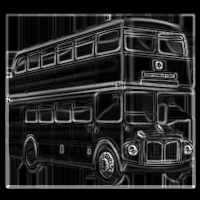
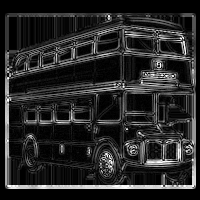
Module working [:smile:]

diff --git a/app.py b/app.py
@@ -2,9 +2,9 @@ from flask import Flask, jsonify, request
 from flask.ext.mysqldb import MySQL
 import cv2
 import numpy as np
-from imgprocess import imgproc
+from imgprocess import imgprocs, imgprocl
 import urllib
-
+from random import randint
 
 app = Flask(__name__)
 
@@ -68,15 +68,56 @@ def returnType(nname):
 def returnProcImg(iid):
 	cur = mysql.connection.cursor()
 	sql = "SELECT * FROM images \
-		    WHERE id LIKE '%s'" % (iid)
+	 	    WHERE id LIKE '%s'" % (iid)
 	cur.execute(sql)
 	rv = cur.fetchall()
 	id,name,url = rv[0]
 	print (id,name,url)
-	imgproc(str(url),iid)
-	#cv2.imwrite(str(id)+".png", procimg)
-	return jsonify({'message' : 'It works!'})
-
+	# query = "SELECT * FROM imgprocess \
+	# 		WHERE id LIKE '%s'" % (iid)
+	# img = []
+	# try:
+	# 	print ("2")
+	# 	cur.execute(query)
+	# 	rvi = cur.fetchall()
+	# 	obj = {}
+	# 	# get the processed id and url from the table
+	# 	idp, urlp = rvi[0]
+	# 	obj['id'] = str(idp)
+	# 	obj['url'] = str(urlp)
+	# 	img.append(obj)
+	# 	return jsonify({'res' : img})
+	# except:
+	# 	#sobel
+	# 	#imgprocs(str(url),iid) 
+	# 	#laplacian
+	# 	print ("1")
+	# 	new_url = "http://localhost:5000/cgi/" + str(id) + ".png" 
+	# 	print (str(new_url))
+	# 	print (str(url))
+	# 	imgprocl(str(url),id)
+	# 	query = "INSERT INTO imgprocess \
+	# 			VALUES ('%s', '%s')" % (str(id), str(new_url))
+	# 	cur.execute(query)
+	# 	connection.commit()
+	# 	img = []
+	# 	obj = {}
+	#Adding randomization in filters
+	if (randint(0,1) == 1):
+		imgprocl(str(url),id)
+	else:
+		imgprocs(str(url),id)
+	img = []
+	obj = {}
+	port = "5500"
+	#new_url = "http://localhost:5000/" + "cgi/" + str(id) + ".png"
+	new_url = "http://localhost:" + str(port) + "/" + str(id) + ".png"
+	obj['id'] = str(id)
+	obj['url'] = str(new_url)
+	img.append(obj)
+	cur.close()
+	return jsonify({'res' : img})
+		#return jsonify({'message' : 'It works!'})
 
 
 if __name__ == "__main__":

diff --git a/imgprocess.py b/imgprocess.py
@@ -17,7 +17,8 @@ def url_to_image(url):
 	# return the image
 	return image
 
-def imgproc(url,id):
+def imgprocs(url,id):
+	#sobel edge detection
 	img = url_to_image(url)
 	print "downloading %s" % (url)
 	img = cv2.GaussianBlur(img,(3,3),0)
@@ -36,4 +37,17 @@ def imgproc(url,id):
 
 	dst = cv2.addWeighted(abs_grad_x,0.5,abs_grad_y,0.5,0)
 	#dst = cv2.add(abs_grad_x,abs_grad_y)
+	cv2.imwrite(os.path.join('cgi', str(id)+".png"), dst)
+
+def imgprocl(url,id):#laplacian for more accuracy
+	kernel_size = 3
+	img = url_to_image(url)
+	print "downloading %s" % (url)
+	
+	img = cv2.GaussianBlur(img,(3,3),0)
+	gray = cv2.cvtColor(img,cv2.COLOR_BGR2GRAY)
+
+	gray_lap = cv2.Laplacian(gray,ddepth,ksize = kernel_size,scale = scale,delta = delta)
+	dst = cv2.convertScaleAbs(gray_lap)
+
 	cv2.imwrite(os.path.join('cgi', str(id)+".png"), dst)

diff --git a/README.md b/README.md
@@ -9,7 +9,11 @@ Install the dependencies as:
 
 If you encounter error installing `flask-mysqldb` install`libmysqlclient-dev` first.
 
-`PIL` i.e Python Imaging Library is used to save dynamic images. 
+> `PIL` i.e Python Imaging Library is used to save dynamic images.
+
+Run a microserver on a `port` so that the new processed image can be accessed.
+
+		python -m SimpleHTTPServer 5500 #Default taken
 
 References:
 
